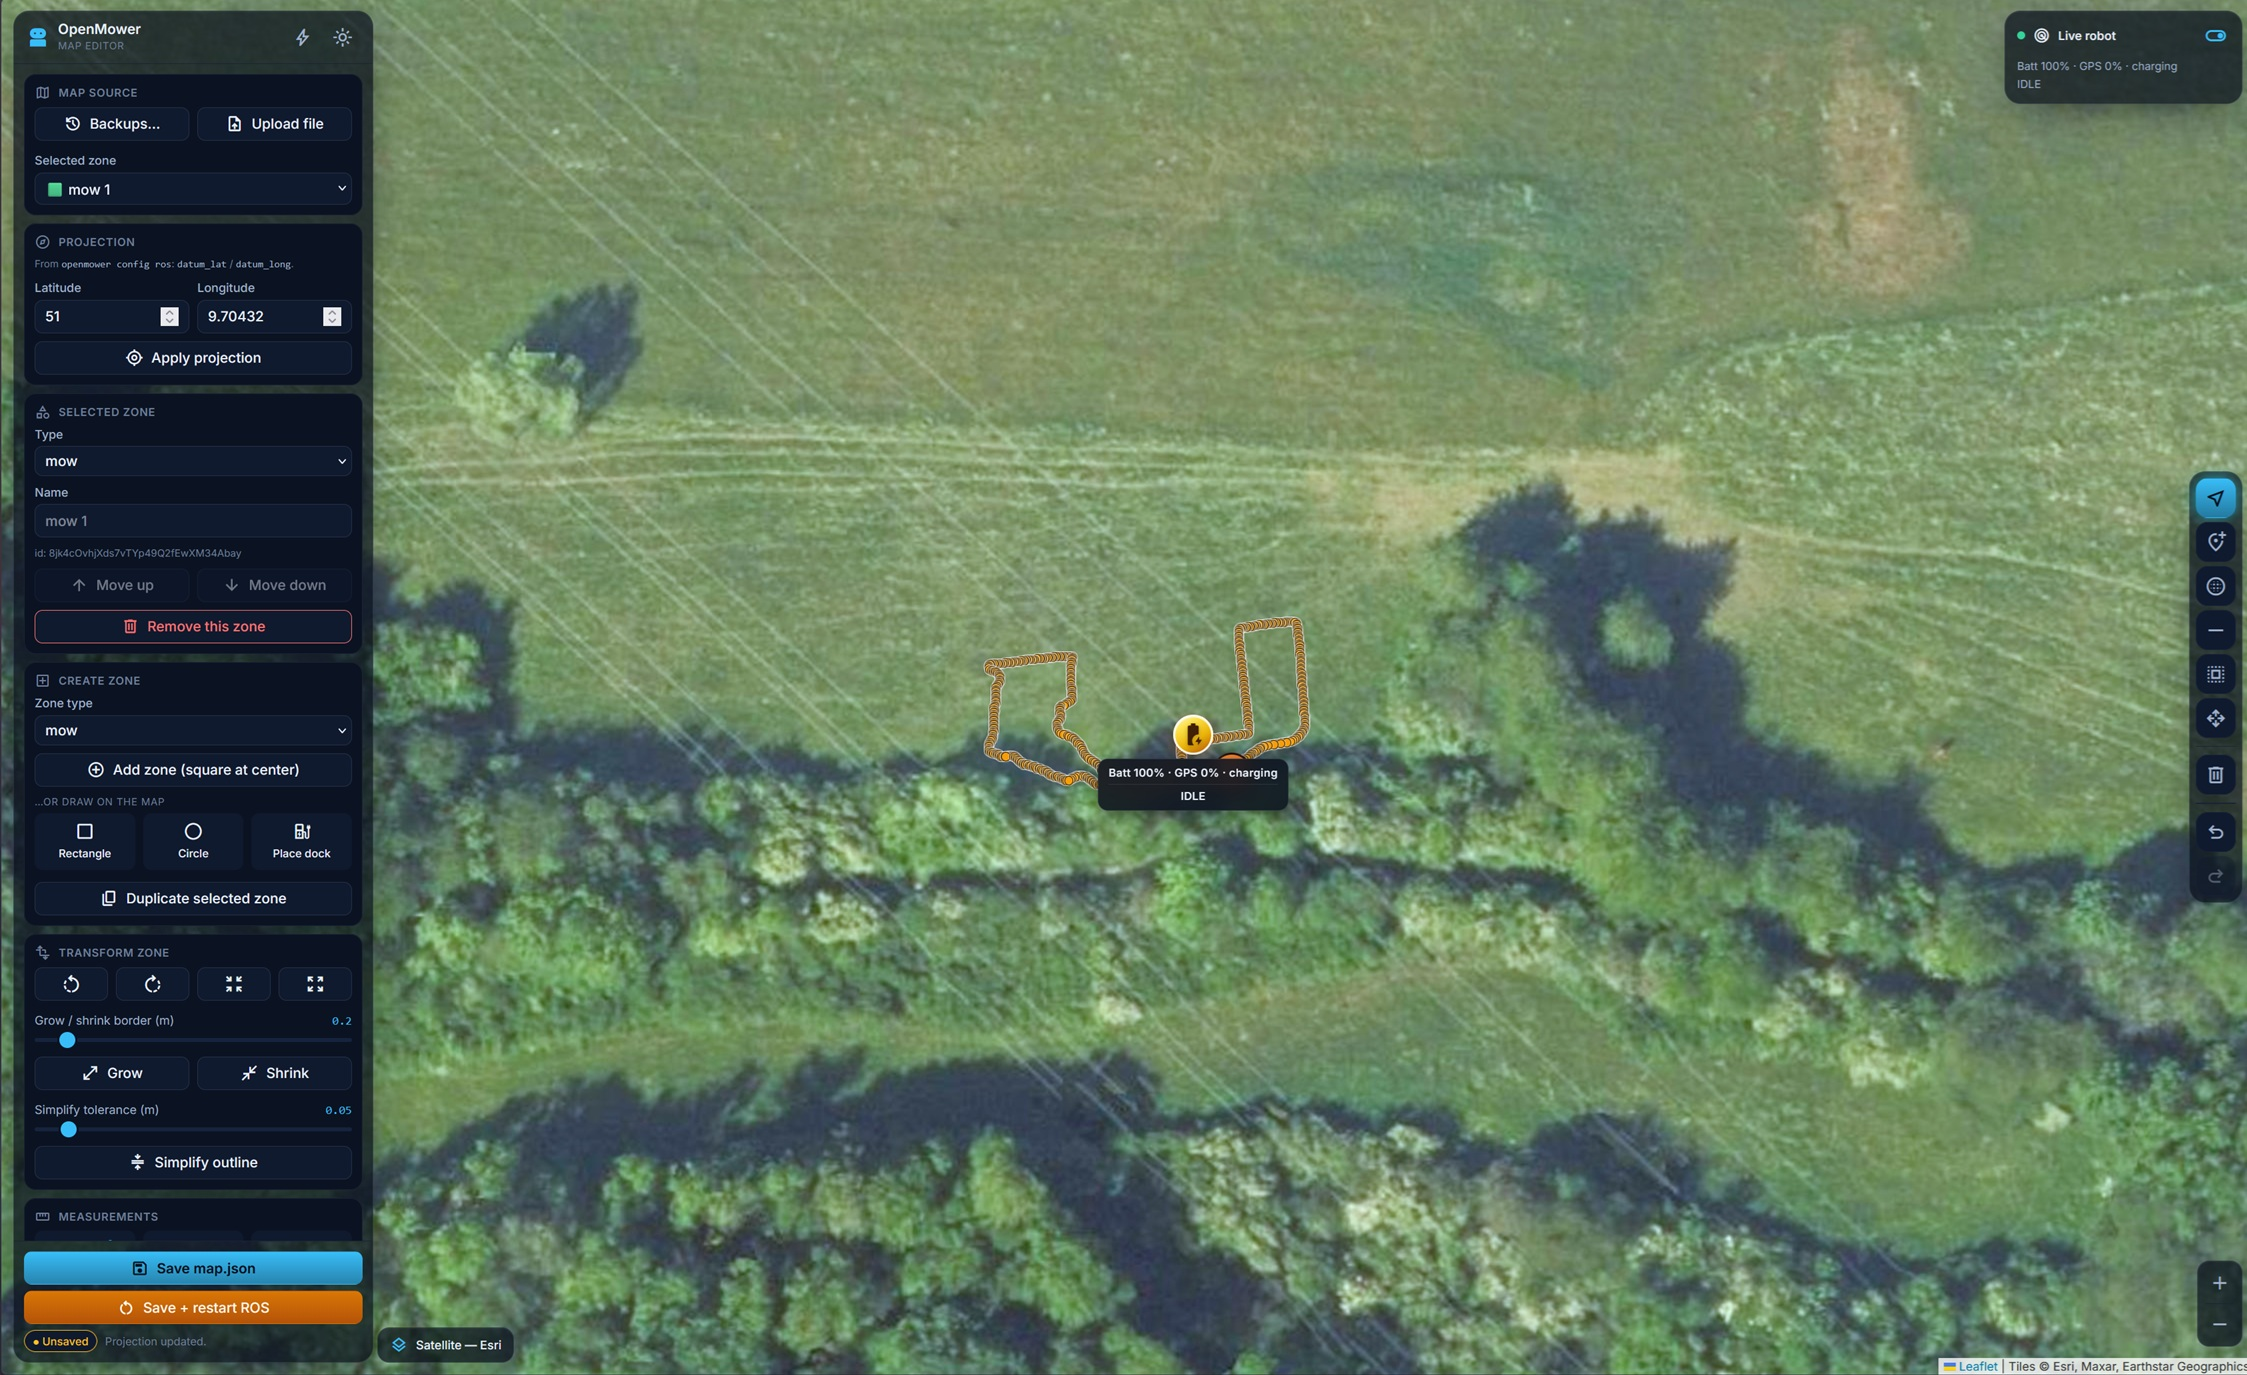
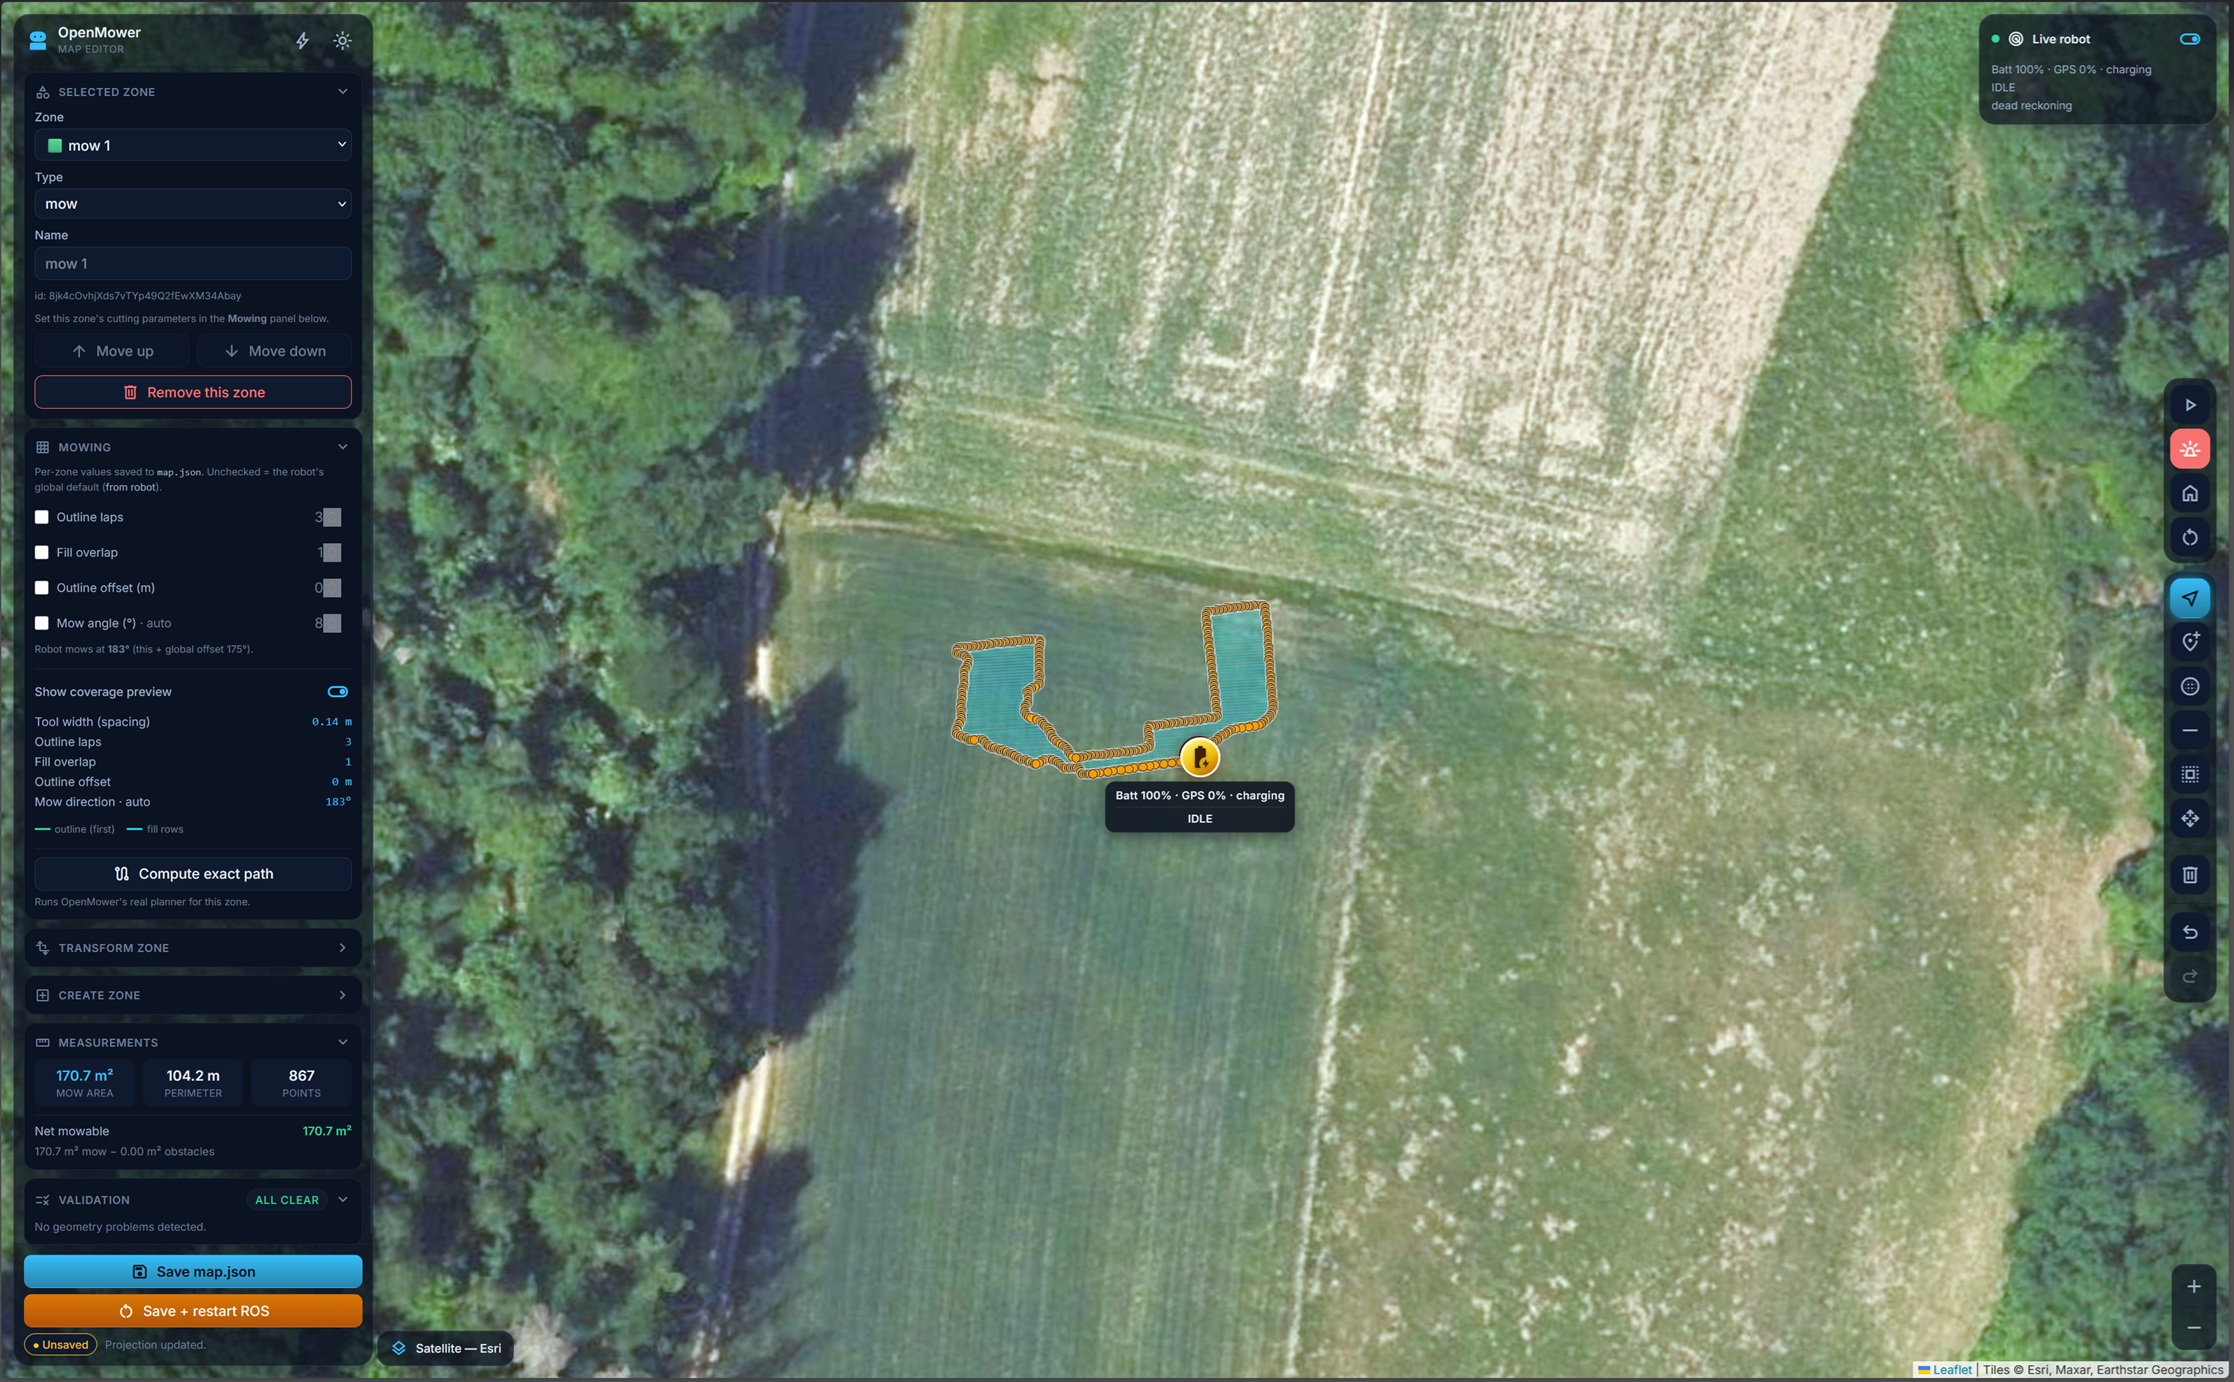
Release v2.1.0 — OpenMower live integration
Bump version to 2.1.0 and add CHANGELOG for the live-integration features
(real mowing params, per-zone overrides, exact path, smooth robot overlay,
mower control) shipped on top of the v2.0.0 toolchain.

diff --git a/CHANGELOG.md b/CHANGELOG.md
@@ -1,0 +1,50 @@
+# Changelog
+
+## v2.1.0 — OpenMower live integration
+
+Deep integration with the running robot: the mowing preview now uses your mower's
+**real** settings, the live overlay is **smooth**, you can render the **exact** path
+the robot will drive, and you can **control the mower** from the map.
+
+### Added
+- **Real-parameter mowing preview** — outline laps + fill drawn from the robot's live
+  `/mower_logic` values (`tool_width`, `outline_count`, overlap, `mow_angle_offset`, …)
+  via `GET /api/mow_params`, with OpenMower's exact angle logic. Falls back to the
+  params file + defaults offline.
+- **Per-zone cutting overrides** — set `outline_count`, `outline_overlap_count`,
+  `outline_offset`, and `angle` per mow zone in the **Mowing** panel; written to
+  `area.properties` in `map.json` (the OpenMower v1.2 feature — no hand-editing).
+  Angle is edited in degrees and stored in radians.
+- **Exact mowing path** — *Compute exact path* runs OpenMower's real
+  `slic3r_coverage_planner` for the selected zone (`POST /api/plan_path`) and overlays
+  the literal drive path (outline laps + fill, obstacles cut out as holes).
+- **Smooth live robot overlay** — the pose now streams over Server-Sent Events from the
+  fused GPS/odometry source (up to ~48 Hz) and is interpolated client-side, replacing
+  the old ~5 s polling. A top-down **mower icon** rotates to the true heading; status
+  modes (nav / docking / charging / dock-full / emergency / error) show RTK state.
+- **Mower control** — a floating bar with **Start**, **Stop**, **Home**, and
+  **Reset E-stop** (`POST /api/control`). Start/Home/Reset need a two-step confirm;
+  **Stop** is a one-tap emergency stop. Disable with `OPENMOWER_CONTROL_DISABLE=1`.
+
+### Changed
+- **Reorganized sidebar** — every panel is collapsible and remembers its state; the
+  mowing preview and its settable parameters are merged into one **Mowing** panel; the
+  zone picker moved into **Selected zone**.
+- **Uniform hover-name labels** on the right-side tool and control bars.
+- Disabled/inherited form fields render as quiet read-outs instead of gray boxes.
+
+### API
+- New endpoints: `GET /api/mow_params`, `GET /api/robot_pose/stream` (SSE),
+  `POST /api/plan_path`, `POST /api/control`. The `map.json` on-disk format is unchanged.
+
+### Internal
+- Shared `resolveMowSettings` (mow-angle + override resolution) and `buildRosPythonBash`
+  (ROS exec sourcing); removed dead code; hot-path optimizations for the live overlay
+  (idle rAF when settled, cached glyph element, icon rebuilt only on change).
+- `restart: unless-stopped` for the container.
+
+### Safety & requirements
+- Control commands move a real robot with spinning blades — test with the mower on a
+  stand or clear area and the physical e-stop within reach.
+- Live pose, exact path, and control require the Docker socket mount and the
+  `open_mower_ros` container. Deploy only on a trusted network.

diff --git a/README.md b/README.md
@@ -74,6 +74,7 @@ services:
       # Optional tuning (see Environment variables below):
       # OPENMOWER_POSE_CONTAINER: open_mower_ros
       # OPENMOWER_POSE_CACHE_MS: "2200"
+      # OPENMOWER_STREAM_FRESH_MS: "2000"
       # OPENMOWER_POSE_DISABLE: "0"
       # OPENMOWER_CONTROL_DISABLE: "0"   # set "1" to hide/disable Start/Stop/Home/Reset
       # OPENMOWER_TF_ECHO_TIMEOUT_SEC: "4"
@@ -181,7 +182,8 @@ Project layout:
 | `OPENMOWER_POSE_CONTAINER` | same as above | Container used for TF echo / ROS topic sampling |
 | `OPENMOWER_POSE_DISABLE` | `0` | Set `1` to disable live pose entirely |
 | `OPENMOWER_CONTROL_DISABLE` | `0` | Set `1` to disable the Start/Stop/Home/Reset mower control buttons |
-| `OPENMOWER_POSE_CACHE_MS` | `2200` | Server-side cache for pose probe (ms) |
+| `OPENMOWER_POSE_CACHE_MS` | `2200` | Server-side cache for the pose fallback probe (ms) |
+| `OPENMOWER_STREAM_FRESH_MS` | `2000` | How long a streamed pose sample stays "fresh" before the SSE endpoint falls back to the probe (ms) |
 | `OPENMOWER_TF_ECHO_TIMEOUT_SEC` | `4` | Timeout for `tf_echo` / `tf2_echo` inside the container |
 | `OPENMOWER_ROS_TOPIC_TIMEOUT_SEC` | `4` | Timeout for `rostopic` / `ros2 topic echo` samples |
 | `OPENMOWER_ROS_TOPIC_FALLBACK_SEC` | `10` | Longer timeout when sampling `/mower_logic/current_state` fallback |